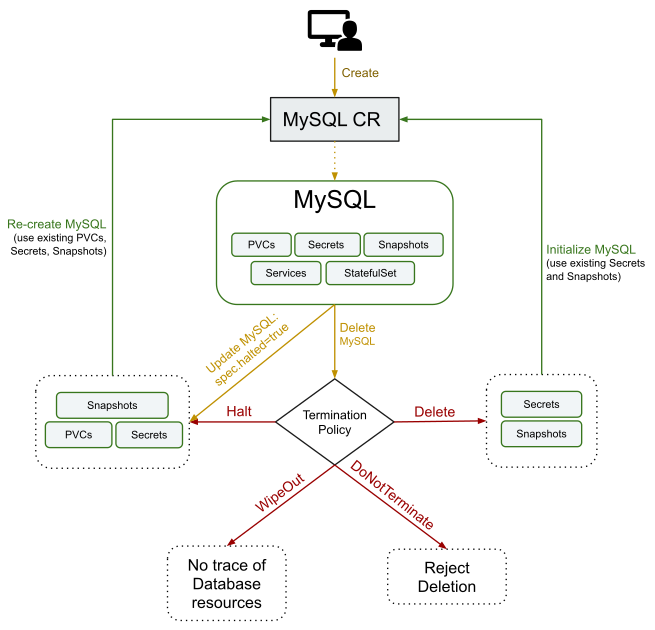
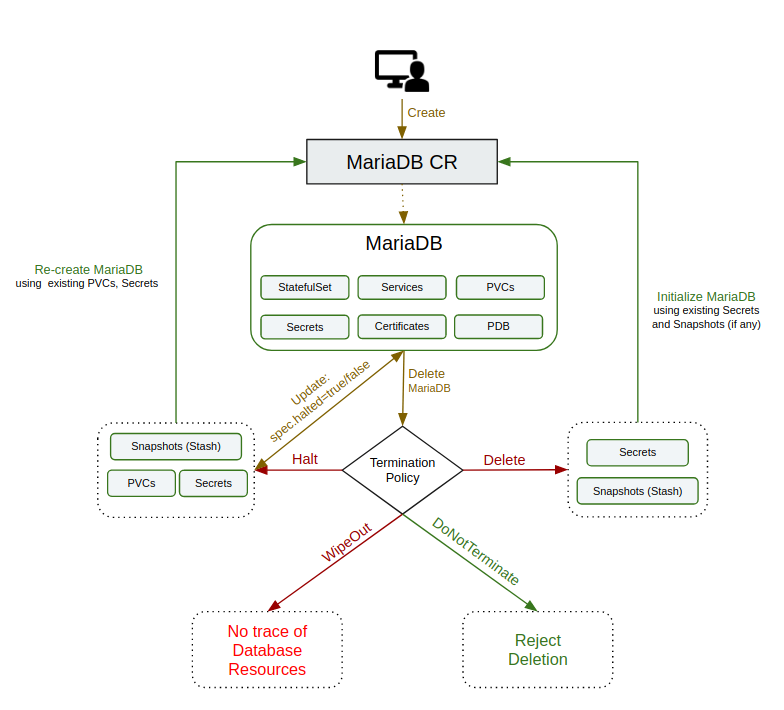
changed mariadb-lifecycle.png image Signed-off-by: Alif Biswas <alif@appscode.com>

Changed region(s): [[0.0, 0.0, 0.916, 0.9651], [0.8244, 0.3619, 0.9771, 0.4825], [0.2748, 0.8143, 0.4275, 0.9651]]

diff --git a/docs/guides/mariadb/quickstart/overview/index.md b/docs/guides/mariadb/quickstart/overview/index.md
@@ -20,7 +20,7 @@ This tutorial will show you how to use KubeDB to run a MariaDB database.
   <img alt="lifecycle"  src="/docs/guides/mariadb/quickstart/overview/images/mariadb-lifecycle.png">
 </p>
 
-> Note: The yaml files used in this tutorial are stored in [here](https://github.com/kubedb/docs/tree/{{< param "info.version" >}}/docs/quides/mariadb/quickstart/overview/examples).
+> Note: The yaml files used in this tutorial are stored in [here](https://github.com/kubedb/docs/tree/{{< param "info.version" >}}/docs/guides/mariadb/quickstart/overview/examples).
 
 ## Before You Begin
 
